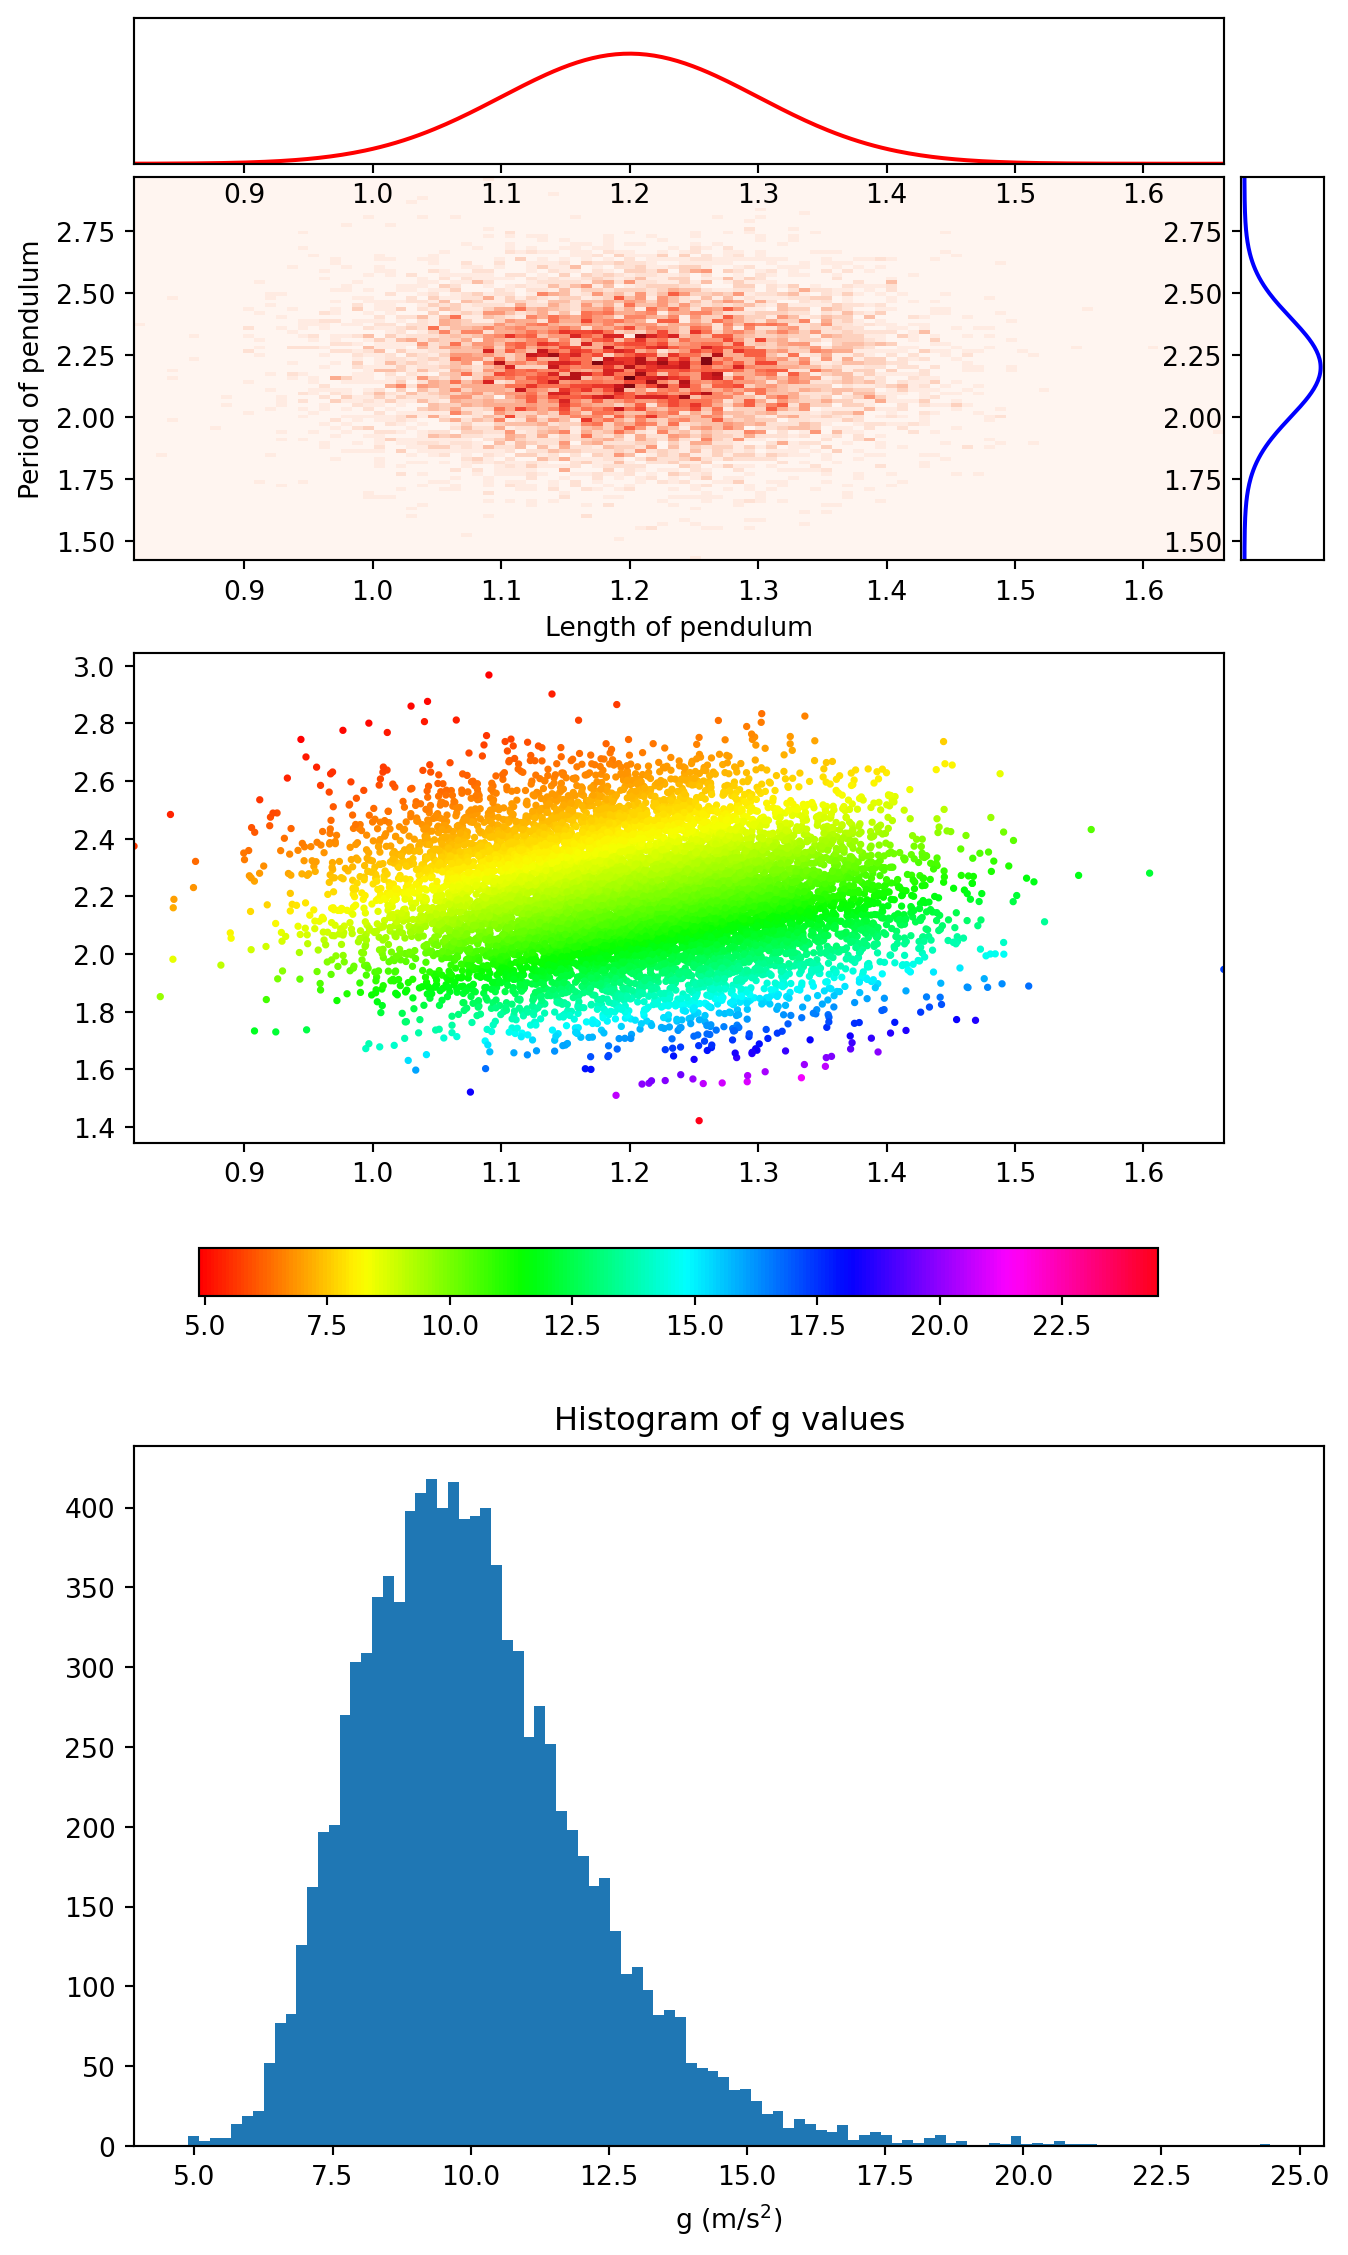
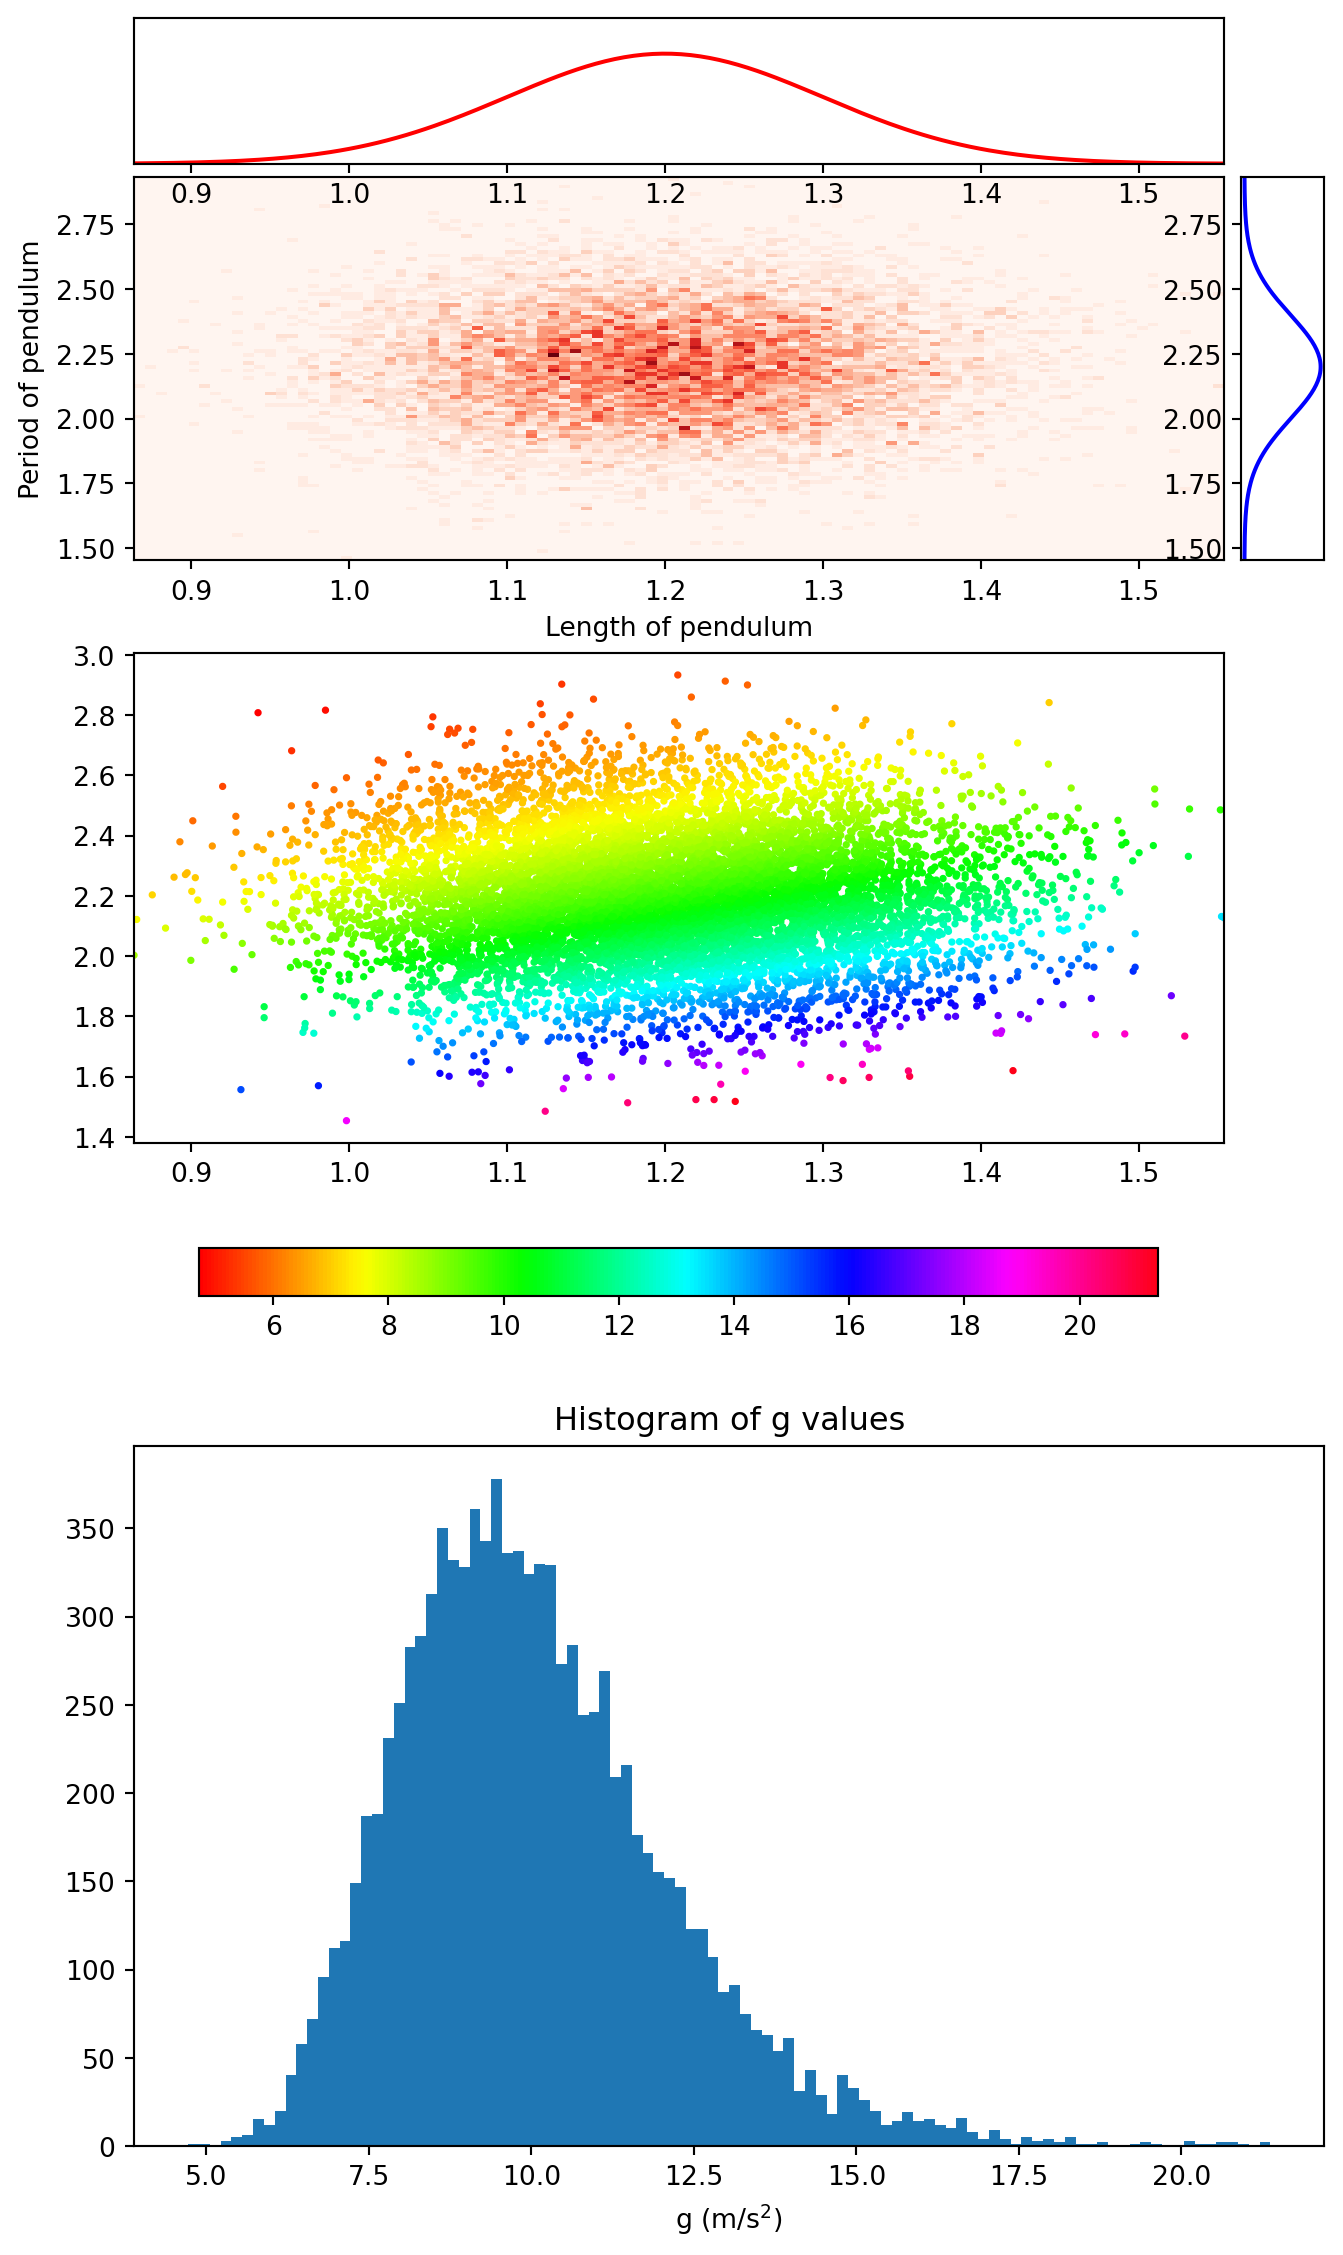
Fixed example code in lab 9

diff --git a/docs/labs/Lab9-One-D-Eulers-Uncertainty/L9-One-D-Eulers-Uncertainty.html b/docs/labs/Lab9-One-D-Eulers-Uncertainty/L9-One-D-Eulers-Uncertainty.html
@@ -412,28 +412,24 @@ F_D = {1\over 2} \rho_\text{air} A_\text{balloon} C |v| v
 <span id="cb4-7"><a href="#cb4-7" aria-hidden="true" tabindex="-1"></a></span>
 <span id="cb4-8"><a href="#cb4-8" aria-hidden="true" tabindex="-1"></a>delta_t <span class="op">=</span> <span class="fl">0.01</span> <span class="co"># Time step in seconds (should be small)</span></span>
 <span id="cb4-9"><a href="#cb4-9" aria-hidden="true" tabindex="-1"></a>t0 <span class="op">=</span> <span class="dv">0</span> <span class="co"># Start time in seconds</span></span>
-<span id="cb4-10"><a href="#cb4-10" aria-hidden="true" tabindex="-1"></a>t_max <span class="op">=</span> <span class="fl">7.0</span> <span class="co">#Final Time</span></span>
-<span id="cb4-11"><a href="#cb4-11" aria-hidden="true" tabindex="-1"></a></span>
-<span id="cb4-12"><a href="#cb4-12" aria-hidden="true" tabindex="-1"></a>N <span class="op">=</span> (t_max <span class="op">-</span> t0)<span class="op">/</span>delta_t <span class="co"># Calculate the number of time steps</span></span>
-<span id="cb4-13"><a href="#cb4-13" aria-hidden="true" tabindex="-1"></a></span>
-<span id="cb4-14"><a href="#cb4-14" aria-hidden="true" tabindex="-1"></a>N <span class="op">=</span> <span class="bu">int</span>(N) <span class="co"># Make sure N is an integer</span></span>
-<span id="cb4-15"><a href="#cb4-15" aria-hidden="true" tabindex="-1"></a><span class="co"># Make lists to store your positions, velocities and times.</span></span>
-<span id="cb4-16"><a href="#cb4-16" aria-hidden="true" tabindex="-1"></a>y <span class="op">=</span> [y0]</span>
-<span id="cb4-17"><a href="#cb4-17" aria-hidden="true" tabindex="-1"></a>v <span class="op">=</span> [v0]</span>
-<span id="cb4-18"><a href="#cb4-18" aria-hidden="true" tabindex="-1"></a>t <span class="op">=</span> [t0]</span>
-<span id="cb4-19"><a href="#cb4-19" aria-hidden="true" tabindex="-1"></a></span>
-<span id="cb4-20"><a href="#cb4-20" aria-hidden="true" tabindex="-1"></a><span class="cf">while</span> y[<span class="op">-</span><span class="dv">1</span>] <span class="op">&gt;</span> <span class="dv">0</span>:</span>
-<span id="cb4-21"><a href="#cb4-21" aria-hidden="true" tabindex="-1"></a>   a <span class="op">=</span> <span class="op">-</span><span class="fl">9.8</span>  <span class="co"># Calculate the current acceleration</span></span>
-<span id="cb4-22"><a href="#cb4-22" aria-hidden="true" tabindex="-1"></a></span>
-<span id="cb4-23"><a href="#cb4-23" aria-hidden="true" tabindex="-1"></a>   <span class="co"># Store the new position, velocity, and time in the lists</span></span>
-<span id="cb4-24"><a href="#cb4-24" aria-hidden="true" tabindex="-1"></a>   v.append(v[<span class="op">-</span><span class="dv">1</span>] <span class="op">+</span> a <span class="op">*</span> delta_t)</span>
-<span id="cb4-25"><a href="#cb4-25" aria-hidden="true" tabindex="-1"></a>   y.append(y[<span class="op">-</span><span class="dv">1</span>] <span class="op">+</span> v[<span class="op">-</span><span class="dv">1</span>] <span class="op">*</span> delta_t)</span>
-<span id="cb4-26"><a href="#cb4-26" aria-hidden="true" tabindex="-1"></a>   t.append(t[<span class="op">-</span><span class="dv">1</span>] <span class="op">+</span> delta_t)</span>
-<span id="cb4-27"><a href="#cb4-27" aria-hidden="true" tabindex="-1"></a></span>
-<span id="cb4-28"><a href="#cb4-28" aria-hidden="true" tabindex="-1"></a>plt.plot(t,y,linewidth <span class="op">=</span> <span class="dv">2</span>, color <span class="op">=</span> <span class="st">'red'</span>)</span>
-<span id="cb4-29"><a href="#cb4-29" aria-hidden="true" tabindex="-1"></a>plt.xlabel(<span class="st">"time (s)"</span>)</span>
-<span id="cb4-30"><a href="#cb4-30" aria-hidden="true" tabindex="-1"></a>plt.ylabel(<span class="st">"Position (m)"</span>)</span>
-<span id="cb4-31"><a href="#cb4-31" aria-hidden="true" tabindex="-1"></a>plt.title(<span class="st">"Position vs. time for a ball in free fall"</span>)</span></code><button title="Copy to Clipboard" class="code-copy-button"><i class="bi"></i></button></pre></div>
+<span id="cb4-10"><a href="#cb4-10" aria-hidden="true" tabindex="-1"></a></span>
+<span id="cb4-11"><a href="#cb4-11" aria-hidden="true" tabindex="-1"></a><span class="co"># Make lists to store your positions, velocities and times.</span></span>
+<span id="cb4-12"><a href="#cb4-12" aria-hidden="true" tabindex="-1"></a>y <span class="op">=</span> [y0]</span>
+<span id="cb4-13"><a href="#cb4-13" aria-hidden="true" tabindex="-1"></a>v <span class="op">=</span> [v0]</span>
+<span id="cb4-14"><a href="#cb4-14" aria-hidden="true" tabindex="-1"></a>t <span class="op">=</span> [t0]</span>
+<span id="cb4-15"><a href="#cb4-15" aria-hidden="true" tabindex="-1"></a></span>
+<span id="cb4-16"><a href="#cb4-16" aria-hidden="true" tabindex="-1"></a><span class="cf">while</span> y[<span class="op">-</span><span class="dv">1</span>] <span class="op">&gt;</span> <span class="dv">0</span>:</span>
+<span id="cb4-17"><a href="#cb4-17" aria-hidden="true" tabindex="-1"></a>   a <span class="op">=</span> <span class="op">-</span><span class="fl">9.8</span>  <span class="co"># Calculate the current acceleration</span></span>
+<span id="cb4-18"><a href="#cb4-18" aria-hidden="true" tabindex="-1"></a></span>
+<span id="cb4-19"><a href="#cb4-19" aria-hidden="true" tabindex="-1"></a>   <span class="co"># Store the new position, velocity, and time in the lists</span></span>
+<span id="cb4-20"><a href="#cb4-20" aria-hidden="true" tabindex="-1"></a>   v.append(v[<span class="op">-</span><span class="dv">1</span>] <span class="op">+</span> a <span class="op">*</span> delta_t)</span>
+<span id="cb4-21"><a href="#cb4-21" aria-hidden="true" tabindex="-1"></a>   y.append(y[<span class="op">-</span><span class="dv">1</span>] <span class="op">+</span> v[<span class="op">-</span><span class="dv">1</span>] <span class="op">*</span> delta_t)</span>
+<span id="cb4-22"><a href="#cb4-22" aria-hidden="true" tabindex="-1"></a>   t.append(t[<span class="op">-</span><span class="dv">1</span>] <span class="op">+</span> delta_t)</span>
+<span id="cb4-23"><a href="#cb4-23" aria-hidden="true" tabindex="-1"></a></span>
+<span id="cb4-24"><a href="#cb4-24" aria-hidden="true" tabindex="-1"></a>plt.plot(t,y,linewidth <span class="op">=</span> <span class="dv">2</span>, color <span class="op">=</span> <span class="st">'red'</span>)</span>
+<span id="cb4-25"><a href="#cb4-25" aria-hidden="true" tabindex="-1"></a>plt.xlabel(<span class="st">"time (s)"</span>)</span>
+<span id="cb4-26"><a href="#cb4-26" aria-hidden="true" tabindex="-1"></a>plt.ylabel(<span class="st">"Position (m)"</span>)</span>
+<span id="cb4-27"><a href="#cb4-27" aria-hidden="true" tabindex="-1"></a>plt.title(<span class="st">"Position vs. time for a ball in free fall"</span>)</span></code><button title="Copy to Clipboard" class="code-copy-button"><i class="bi"></i></button></pre></div>
 <div class="cell-output cell-output-display" data-execution_count="1">
 <pre><code>Text(0.5, 1.0, 'Position vs. time for a ball in free fall')</code></pre>
 </div>
@@ -450,7 +446,7 @@ F_D = {1\over 2} \rho_\text{air} A_\text{balloon} C |v| v
 <pre><code>Text(0.5, 0, 'g (m/s$^2$)')</code></pre>
 </div>
 <div class="cell-output cell-output-display">
-<p><img src="L9-One-D-Eulers-Uncertainty_files/figure-html/cell-6-output-2.png" width="674" height="1128"></p>
+<p><img src="L9-One-D-Eulers-Uncertainty_files/figure-html/cell-6-output-2.png" width="672" height="1128"></p>
 </div>
 </div>
 <p>The top figures represent the distribution of the (L,T) pairs and the one-dimensional projections. The second figure shows the same data as the top figure but now the value of g for each (L,T) data pair is represented by the color of the plot point. Finally the final figure gives the histogram of g values. The standard deviation of this final data set could be used as the uncertainty on <span class="math inline">\(g\)</span>. So to propagate uncertainty in a numerical calculation we should <strong>run Euler’s method many times, each time starting with a different set of initial conditions.</strong> When selecting a value for the initial condition we should generate a random number from the appropriate distribution. This can be accomplished by placing your Euler’s loop from last week into <em>another loop</em>, called the outer loop.</p>
@@ -461,7 +457,7 @@ F_D = {1\over 2} \rho_\text{air} A_\text{balloon} C |v| v
 <span id="cb7-3"><a href="#cb7-3" aria-hidden="true" tabindex="-1"></a>randomNumber <span class="op">=</span> sp.norm.rvs(loc <span class="op">=</span> <span class="dv">5</span>,scale <span class="op">=</span> <span class="fl">0.5</span>)</span>
 <span id="cb7-4"><a href="#cb7-4" aria-hidden="true" tabindex="-1"></a><span class="bu">print</span>(randomNumber)</span></code><button title="Copy to Clipboard" class="code-copy-button"><i class="bi"></i></button></pre></div>
 <div class="cell-output cell-output-stdout">
-<pre><code>5.160102361887256</code></pre>
+<pre><code>4.689516761848795</code></pre>
 </div>
 </div>
 <p>The <code>loc</code> keyword argument specifies the mean of the distribution (<span class="math inline">\(\mu\)</span>) and the <code>scale</code> keyword argument specifies the standard deviation of the distribution (<span class="math inline">\(\sigma\)</span>).</p>
